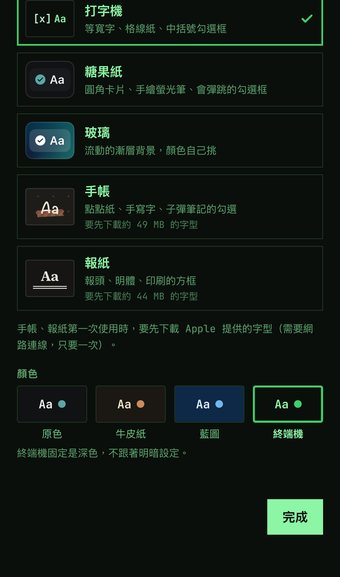
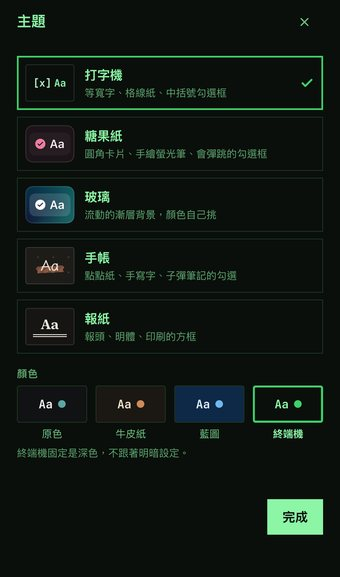
Typeday 手帳、報紙改用 App 內附的開源字型（霞鶩文楷、Noto Serif TC）；主題面板截圖更新

Changed region(s): [[0.0294, 0.0, 0.9706, 0.4055], [0.0294, 0.4367, 0.9412, 0.6239]]

diff --git a/checkly-ios/2026-10-12-notebook-newspaper/index.html b/checkly-ios/2026-10-12-notebook-newspaper/index.html
@@ -26,7 +26,7 @@ figcaption{font-size:13px;color:var(--muted);text-align:center;margin-top:4px}
 <h2>手帳</h2>
 <div class="shots"><img src="img/notebook.jpg" style="width:1556px" alt="手帳：重複排程、月曆、近期任務、深色月曆、英文"></div>
 <ul>
-<li>點點方格紙，字是手寫的翩翩體（英文、數字也是手寫）。</li>
+<li>點點方格紙，字是手寫風的霞鶩文楷（英文、數字也是手寫風）。</li>
 <li>頁名下面貼一段紙膠帶；分組標題下面一條波浪線。</li>
 <li>勾選是子彈筆記的寫法：還沒做是「•」，做完畫上「×」（一筆一筆畫上去）。</li>
 <li>重要的事用黃色螢光筆畫過；月曆上的重要事件是手寫的「＊」，今天用手畫的圈圈起來。</li>
@@ -38,15 +38,15 @@ figcaption{font-size:13px;color:var(--muted);text-align:center;margin-top:4px}
 <ul>
 <li>報頭「Typeday 日報」（英文是 The Typeday Daily），左邊是備份狀態、右邊是選單。</li>
 <li>報頭下面一行：日期、現在這一頁的名稱、「第 287 期」（今年第幾天）；再一道雙線。</li>
-<li>中文是明體（宋體）、英文與數字是 New York；勾選是印刷的方框打勾。</li>
+<li>中文是明體（Noto Serif TC）、英文與數字是 New York；勾選是印刷的方框打勾。</li>
 <li>分組小標是紅字，重要的事前面是紅色 ◆；分頁列上方雙線、選中的紅字加紅線。深色就是「夜間版」。</li>
 </ul>
 
 <h2>主題面板與選單</h2>
 <div class="single"><img src="img/themes.jpg" alt="主題面板"></div>
 <p class="cap">選單的「主題」改成一顆按鈕（五種排不下一列），點了開這個面板：五種主題各有小預覽。打字機以外的需要完整版。</p>
-<div class="box"><b>字型怎麼來的</b>：手帳的翩翩體、報紙的宋體是 Apple 提供、可以下載的系統字型，App 不用自己帶好幾十 MB。
-第一次選這兩個主題時會跟 Apple 下載（手帳約 49 MB、報紙約 44 MB，需要網路、只要一次），面板上會顯示下載進度，下載好才換過去。</div>
+<div class="box"><b>字型（10-13 更新）</b>：手帳是<b>霞鶩文楷</b>、報紙的中文是 <b>Noto Serif TC</b>（明體），都是開源字型、直接包在 App 裡——選了馬上換，不用下載、不用網路。
+（原本用 Apple 的可下載字型，手機用行動網路時卡在 0%，所以改掉。）字型只收常用字，很少見的字會用系統字補上。</div>
 
 <h2>App Store 截圖 06（五種主題）</h2><div class='row'><figure><img src="img/06-zh-Hant.jpg" alt="App Store 截圖 06（中文）" loading="lazy"><figcaption>中文</figcaption></figure><figure><img src="img/06-en.jpg" alt="App Store 截圖 06（英文）" loading="lazy"><figcaption>英文</figcaption></figure></div><p class='cap'>同一頁（重複排程）換成五種外觀：後排打字機（深色）、玻璃、報紙，前排糖果紙、手帳。標記改成「打字機以外需購買完整版」。</p>
 </div></body></html>
